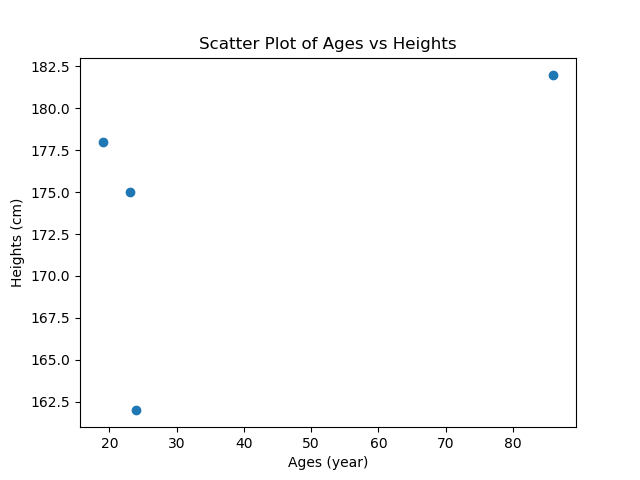
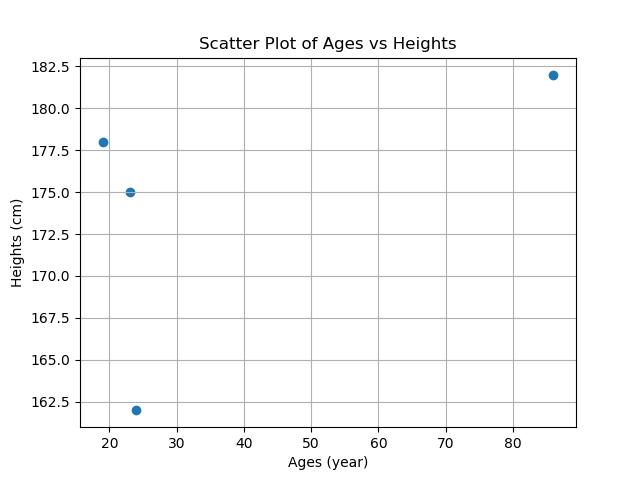
Add files via upload

diff --git a/hw1_python_basics/hw1p1.py b/hw1_python_basics/hw1p1.py
@@ -30,5 +30,6 @@ plt.scatter(list_of_ages, list_of_heights_cm)
 plt.xlabel('Ages (year)')
 plt.ylabel('Heights (cm)')
 plt.title('Scatter Plot of Ages vs Heights')
+plt.grid(True)
 plt.savefig("ScatterPlotAgeVsHeight.png")
 plt.show()
